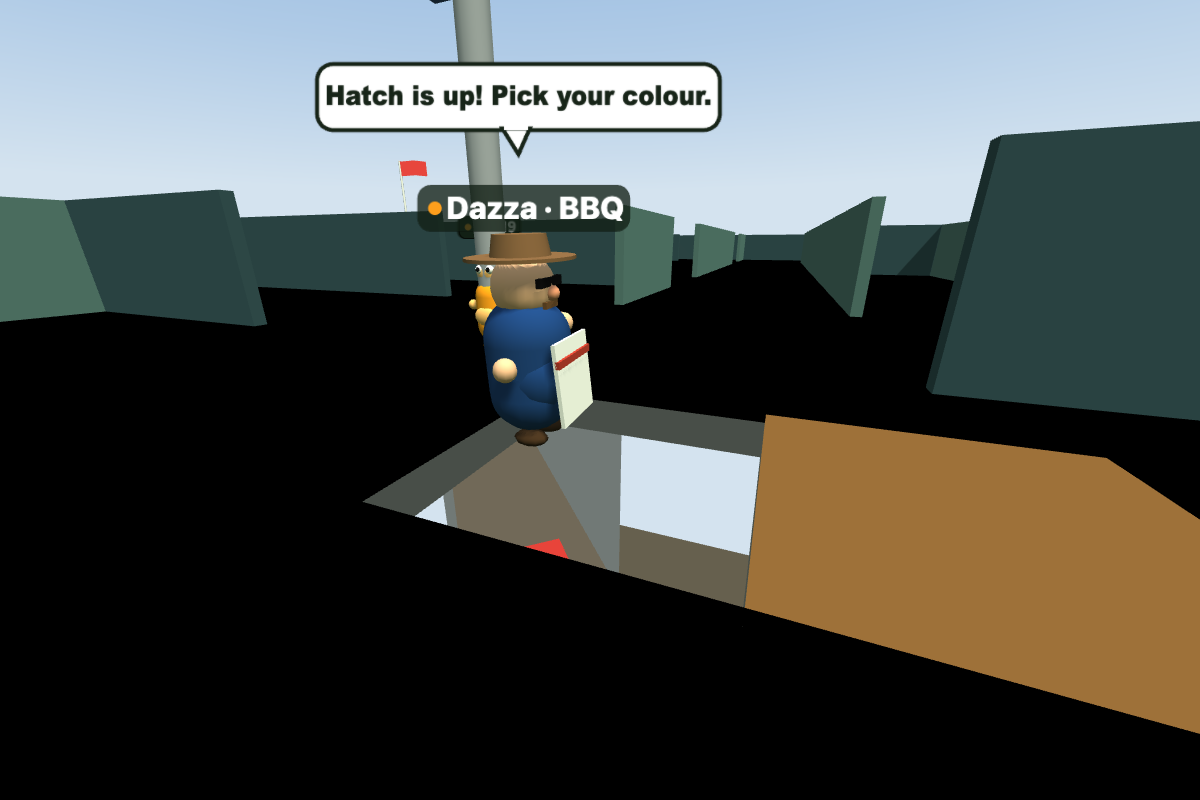
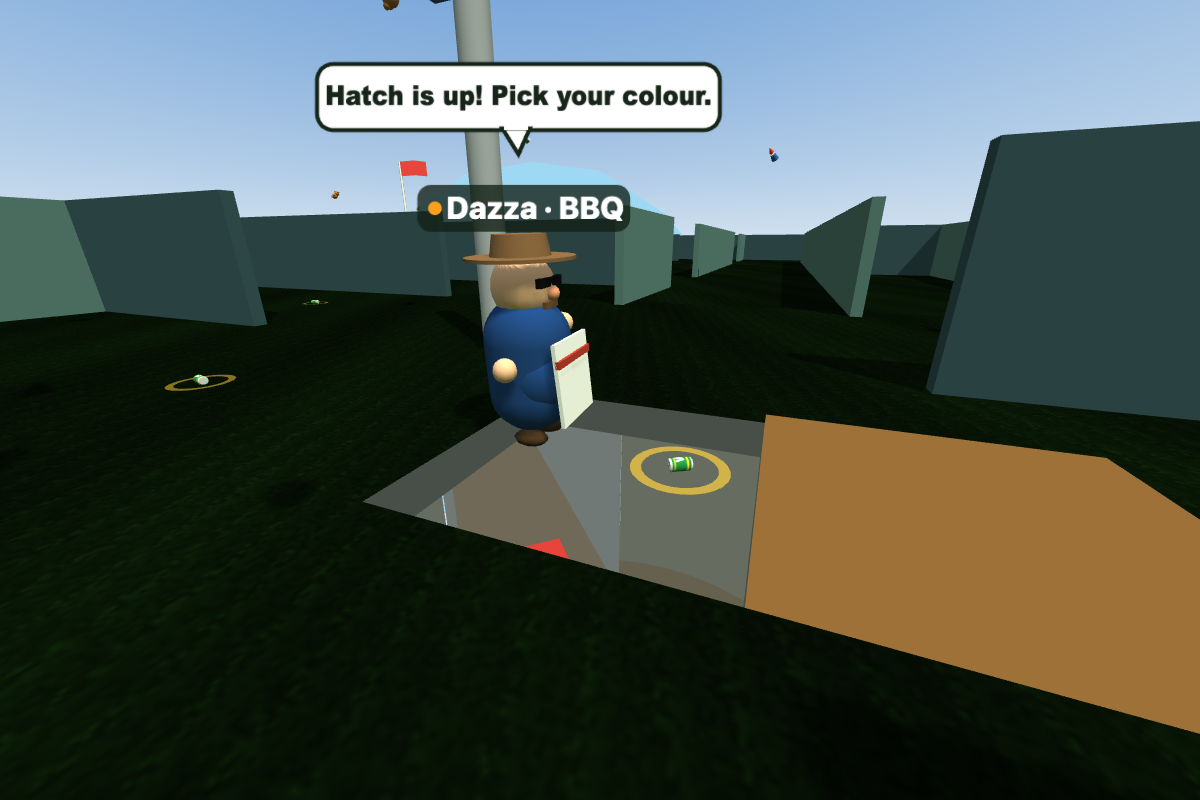
Polish Heist results presentation and tunnel junction

diff --git a/public/index.html b/public/index.html
@@ -2161,6 +2161,13 @@ function buildPassage(){
   hatchMesh=box(3,.12,3,0x9e7139,3.65,.06,3.65);
   box(10,.14,10,0x66604e,3.65,-4.59,3.65);
   for(const [x,z,w,d] of [[-3.25,0,3.5,10],[3.25,0,3.5,10],[0,-3.25,3,3.5],[0,3.25,3,3.5]])box(w,.16,d,0x484e48,3.65+x,-.36,3.65+z);
+  const axes=Object.values(heistBases).map(base=>heistGate(base).sub(HATCH_POINT).normalize());
+  const rim=i=>new V3(Math.sin(i*Math.PI/24)*4,0,Math.cos(i*Math.PI/24)*4);
+  for(let i=0;i<48;i++){
+    const a=rim(i),b=rim(i+1),edge=b.clone().sub(a),centre=a.add(b).multiplyScalar(.5);
+    if(axes.some(axis=>axis.dot(centre)>0&&Math.abs(axis.x*centre.z-axis.z*centre.x)<1.72))continue;
+    box(.2,4.25,edge.length()+.045,0x666c60,3.65+centre.x,-2.375,3.65+centre.z).rotation.y=Math.atan2(edge.x,edge.z);
+  }
   for(const [key,b] of Object.entries(heistBases)){
     const end=heistGate(b),axis=end.clone().sub(HATCH_POINT),len=axis.length();axis.normalize();
     const yaw=Math.atan2(axis.x,axis.z),mid=d=>HATCH_POINT.clone().addScaledVector(axis,d);

diff --git a/rust/crates/bbq_core/src/looks_yard.rs b/rust/crates/bbq_core/src/looks_yard.rs
@@ -4046,6 +4046,27 @@ pub fn heist_look_variant(teams: usize, variant: usize) -> Vec<Part> {
     for (x,z,w,d) in [(-3.25,0.0,3.5,10.0),(3.25,0.0,3.5,10.0),(0.0,-3.25,3.0,3.5),(0.0,3.25,3.0,3.5)] {
         v.push(cuboid(w,0.16,d,matt(0x484e48).unlit(),hatch.x+x,-0.36,hatch.z+z));
     }
+    // Close the junction between its tunnel mouths, leaving each walking lane open.
+    let axes: Vec<_> = crate::passage::exits(teams)
+        .map(|end| (end - hatch).normalised())
+        .collect();
+    let rim = |i| {
+        let angle = i as f32 * 2.0 * PI / 48.0;
+        V3::new(angle.sin() * 4.0, 0.0, angle.cos() * 4.0)
+    };
+    for i in 0..48 {
+        let edge = rim(i + 1) - rim(i);
+        let centre = (rim(i) + rim(i + 1)) * 0.5;
+        if axes.iter().any(|axis| {
+            axis.dot(centre) > 0.0 && (axis.x * centre.z - axis.z * centre.x).abs() < 1.72
+        }) {
+            continue;
+        }
+        v.push(cuboid(
+            0.2, 4.25, edge.horiz_len() + 0.045, matt(0x666c60).unlit(),
+            hatch.x + centre.x, -2.375, hatch.z + centre.z,
+        ).turn(0.0, edge.x.atan2(edge.z), 0.0));
+    }
     for (end,team) in crate::passage::exits(teams).zip(heist::team_keys(teams)) {
         let delta=end-hatch;
         let len=delta.horiz_len();

diff --git a/rust/crates/bbq_app/src/round.rs b/rust/crates/bbq_app/src/round.rs
@@ -847,7 +847,7 @@ fn update_round_hud(
     mut status: Single<&mut Text, (With<StatusText>, Without<BannerText>, Without<ResultsText>)>,
     mut banner: Single<&mut Text, (With<BannerText>, Without<StatusText>, Without<ResultsText>)>,
     mut results: Single<
-        (&mut Text, &mut Visibility),
+        (&mut Text, &mut Visibility, &mut TextColor),
         (With<ResultsText>, Without<StatusText>, Without<BannerText>),
     >,
 ) {
@@ -922,9 +922,20 @@ fn update_round_hud(
         .map(|b| b.0.clone())
         .unwrap_or_default();
 
-    // the results card (`menu.rs`) shows the results now
-    let (_, vis) = &mut *results;
+    let (text, vis, color) = &mut *results;
     **vis = Visibility::Hidden;
+    if let Some(result) = &g.round.results
+        && let Some((reveal, _)) = &g.round.banner
+        && g.round.panel_in > 0.0
+        && (!result.match_over || g.round.panel_in >= 7.0)
+    {
+        text.0.clone_from(reveal);
+        color.0 = match result.winner {
+            Some(Key::Team(team)) => crate::characters::team_colour(team),
+            _ => Color::WHITE,
+        };
+        **vis = Visibility::Inherited;
+    }
 }
 
 #[allow(dead_code)]

diff --git a/rust/crates/bbq_app/src/heist_quest.rs b/rust/crates/bbq_app/src/heist_quest.rs
@@ -146,6 +146,8 @@ pub fn interact(g: &mut Game, p: &Player) -> bool {
         q.best = f32::INFINITY;
         q.replan = 0.0;
         "Cold as! Come with me, I know a way underneath."
+    } else if q.escort || q.age < q.chatter {
+        ""
     } else if !alcoholic {
         "Ah. Infrastructure for tomorrow morning."
     } else if q.tipsy > 1.8 {
@@ -156,7 +158,9 @@ pub fn interact(g: &mut Game, p: &Player) -> bool {
     q.chatter = q.age + 9.0;
     g.slots.remove(id);
     g.world.remove(id);
-    g.life.dazza_says(say);
+    if !say.is_empty() {
+        g.life.dazza_says(say);
+    }
     g.popup(format!("Gave Dazza a {name}"), false);
     true
 }
@@ -226,7 +230,7 @@ pub fn tick(g: &mut Game, p: &Player, yard: &mut Yard, dt: f32) {
             }
         }
     }
-    if say.is_none() && q.tipsy > 0.65 && q.age >= q.chatter && pos.horiz_dist(me) < 10.0 {
+    if say.is_none() && !q.escort && q.tipsy > 0.65 && q.age >= q.chatter && pos.horiz_dist(me) < 10.0 {
         let lines = if q.tipsy > 1.8 {
             [
                 "Follow me. If I follow you too, we’ll be here all arvo.",

diff --git a/rust/crates/bbq_app/src/hud.rs b/rust/crates/bbq_app/src/hud.rs
@@ -580,11 +580,11 @@ fn cd_chip(p: &mut ChildSpawnerCommands, key: &'static str, label: &str, fill: O
 
 // ---------------------------------------------------------------- showing and updating
 
-fn show_hud(screen: Res<Screen>, mut q: Query<&mut Visibility, With<HudRoot>>) {
+fn show_hud(screen: Res<Screen>, game: Res<Game>, mut q: Query<&mut Visibility, With<HudRoot>>) {
     // `--nohud` (screenshots of the characters)
     let hide = std::env::args().any(|a| a == "--nohud");
     for mut v in &mut q {
-        *v = if !hide && matches!(*screen, Screen::Playing | Screen::Paused) {
+        *v = if !hide && game.rules.phase != Phase::Results && matches!(*screen, Screen::Playing | Screen::Paused) {
             Visibility::Inherited
         } else {
             Visibility::Hidden
